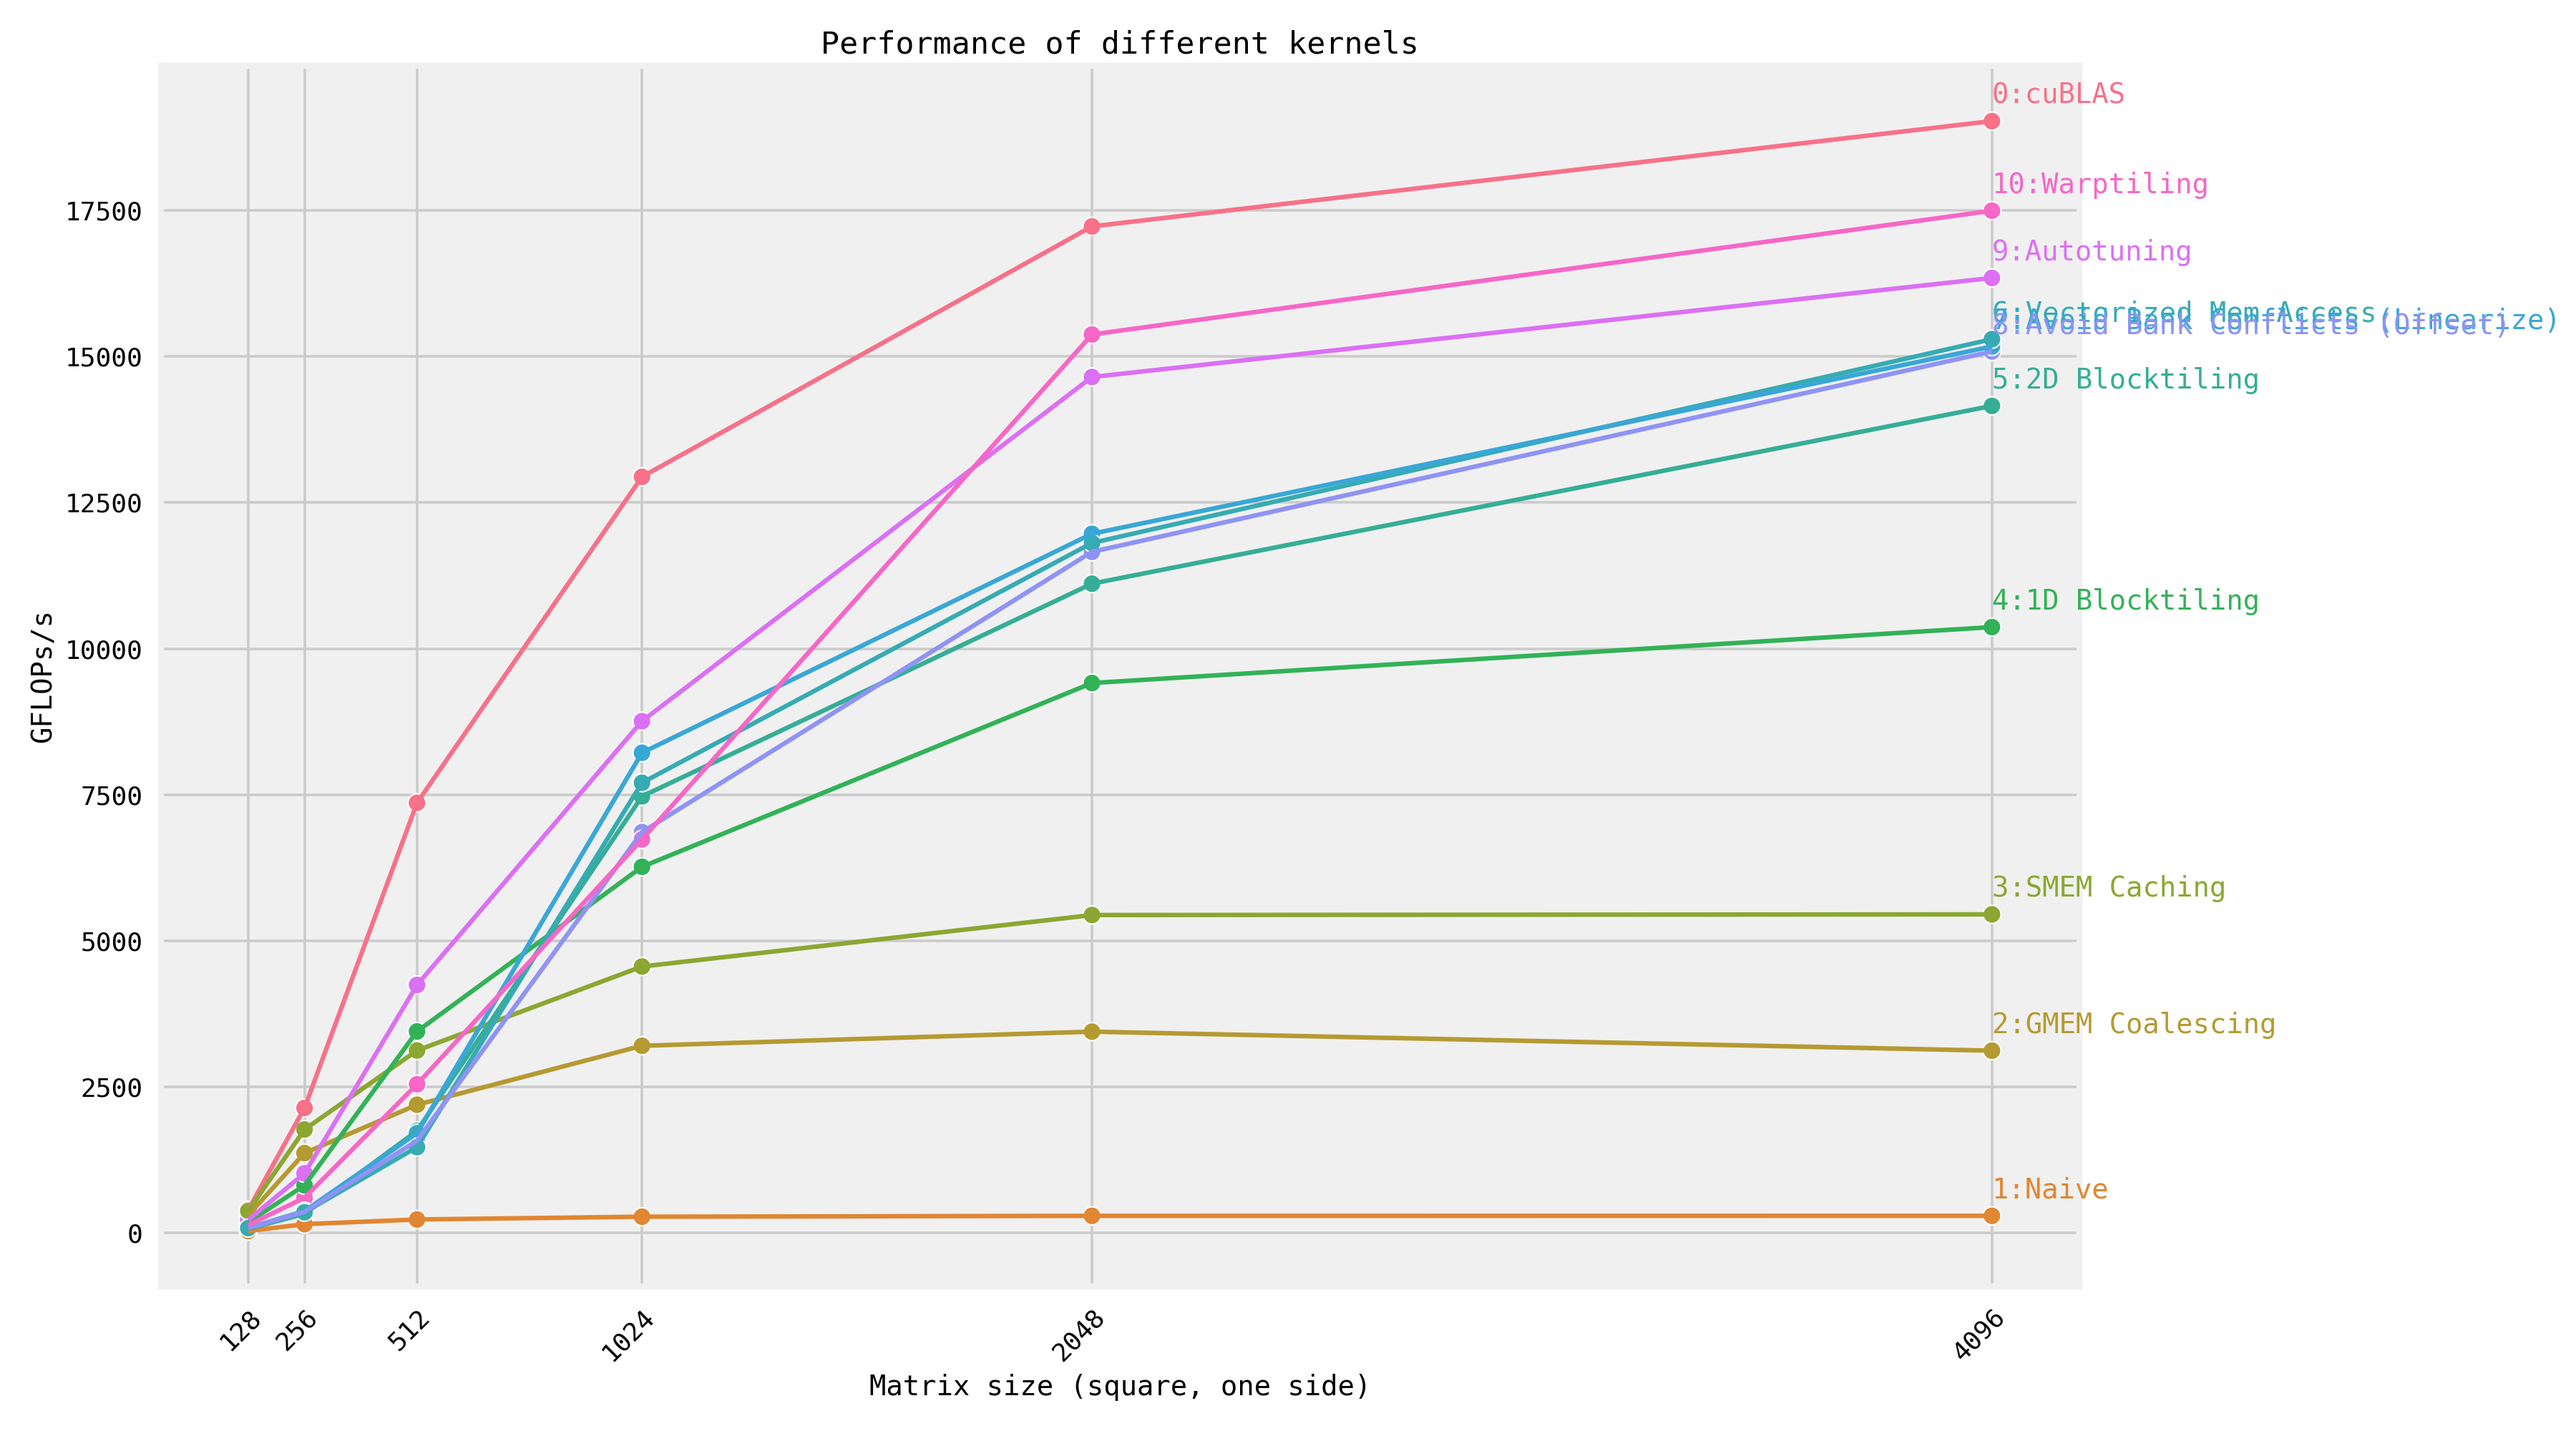
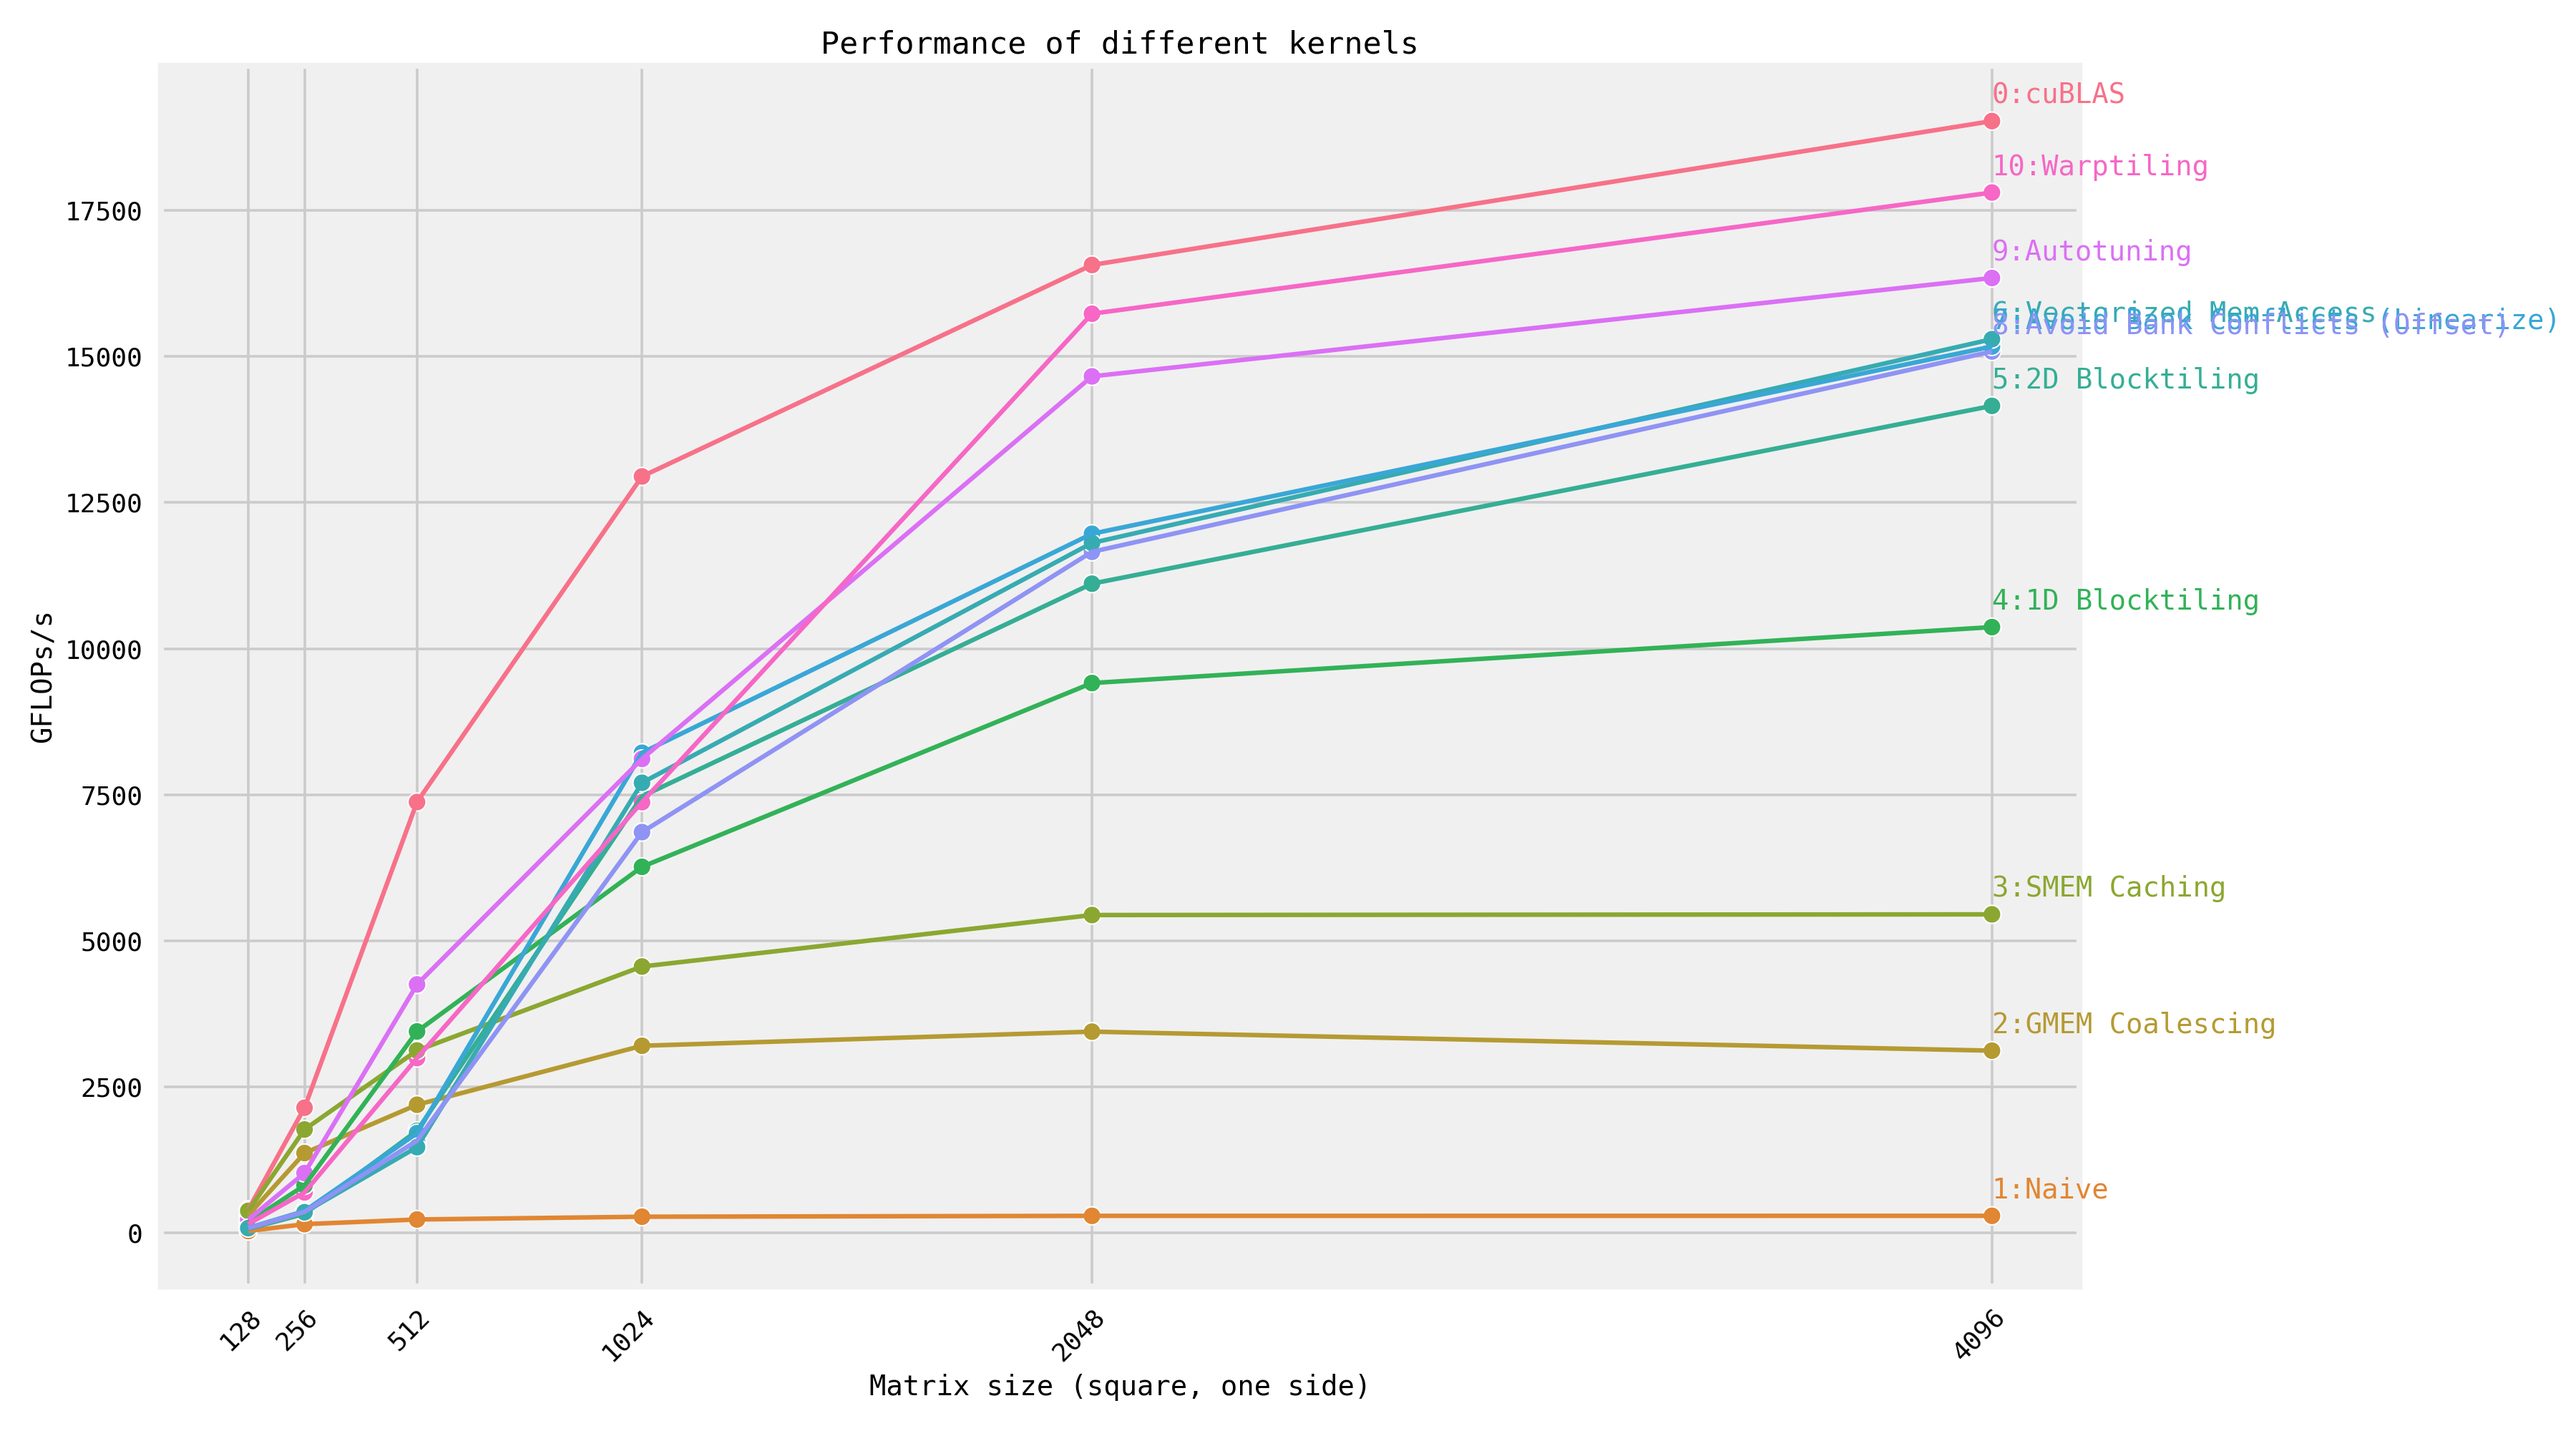
K10: Updated params after tune sweep

diff --git a/plot_benchmark_results.py b/plot_benchmark_results.py
@@ -101,6 +101,9 @@ if __name__ == "__main__":
 
     data = []
     for filename in results_dir.glob("*.txt"):
+        # filenames have the format: <kernel_nr>_output.txt
+        if not filename.stem.split("_")[0].isdigit() and "_output" not in filename.stem:
+            continue
         results_dict = parse_file(filename)
         kernel_nr = int(filename.stem.split("_")[0])
         for size, gflops in zip(results_dict["size"], results_dict["gflops"]):

diff --git a/README.md b/README.md
@@ -21,9 +21,9 @@ GFLOPs at matrix size 4092x4092:
 | 8: Avoid Bank Conflicts (Offset)    |    15086.2 | 79.3%                            |
 | 7: Avoid Bank Conflicts (Linearize) |    15171.3 | 79.7%                            |
 | 6: Vectorized Mem Access            |    15296.5 | 80.4%                            |
-| 9: Autotuning                       |    16345.1 | 85.9%                            |
-| 10: Warptiling                      |    17495.7 | 91.9%                            |
-| 0: cuBLAS                           |    19029.6 | 100.0%                           |
+| 9: Autotuning                       |    16344.1 | 85.9%                            |
+| 10: Warptiling                      |    17806.7 | 93.6%                            |
+| 0: cuBLAS                           |    19029.5 | 100.0%                           |
 <!-- benchmark_results -->
 
 ## Setup
